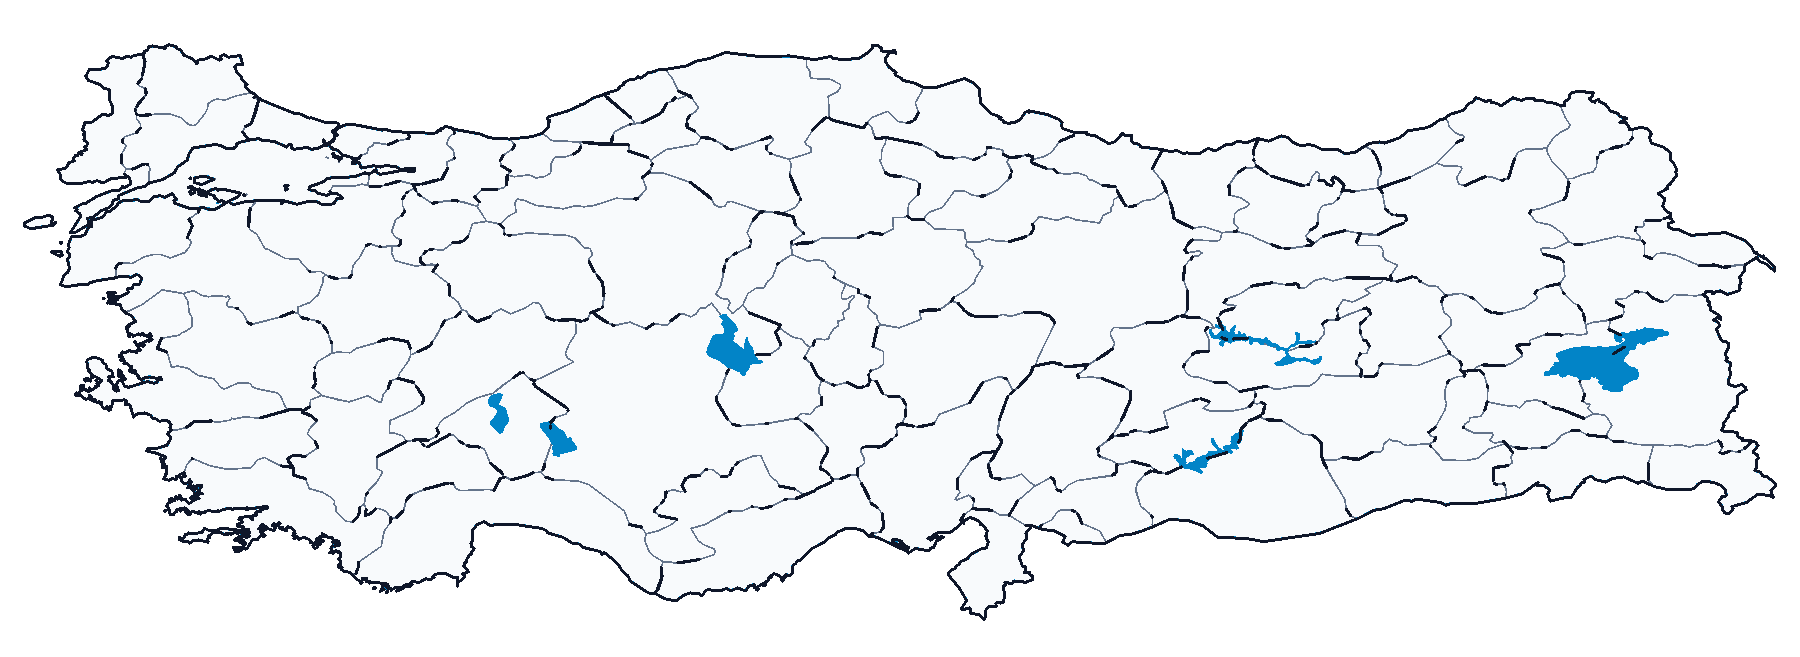
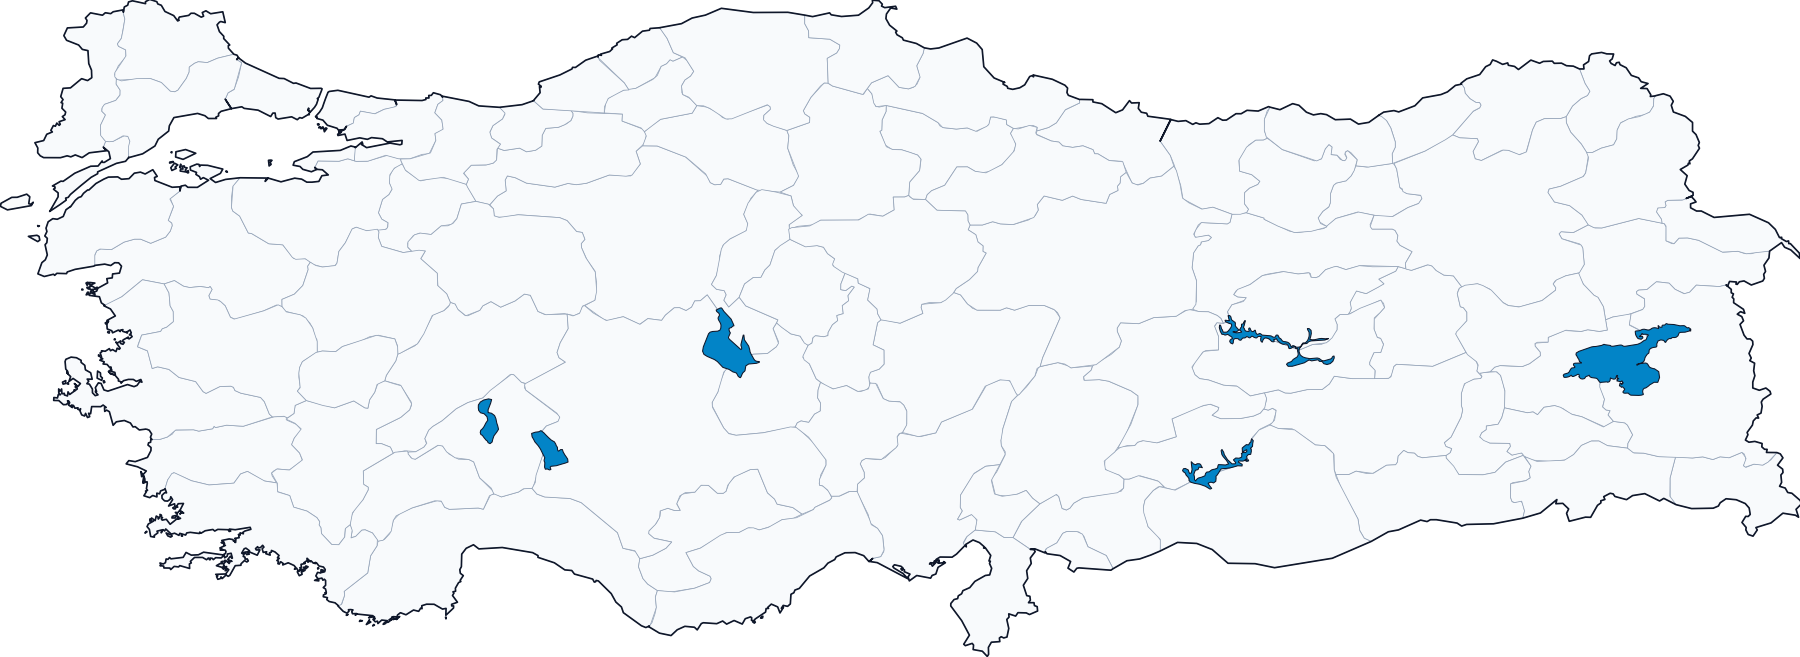
fix(map): restore Marmara Sea, Bosphorus, and Dardanelles with authentic geography (v1.0.12+13)

diff --git a/lib/services/update_service.dart b/lib/services/update_service.dart
@@ -66,8 +66,8 @@ class UpdateService {
   static final UpdateService instance = UpdateService._internal();
   UpdateService._internal();
 
-  static const int currentVersionCode = 12;
-  static const String currentVersionName = '1.0.11';
+  static const int currentVersionCode = 13;
+  static const String currentVersionName = '1.0.12';
 
   // Primary: GitHub Raw & jsDelivr CDN (Sınırsız trafik, Netlify kotasını tüketmez)
   static const List<String> _versionEndpoints = [
